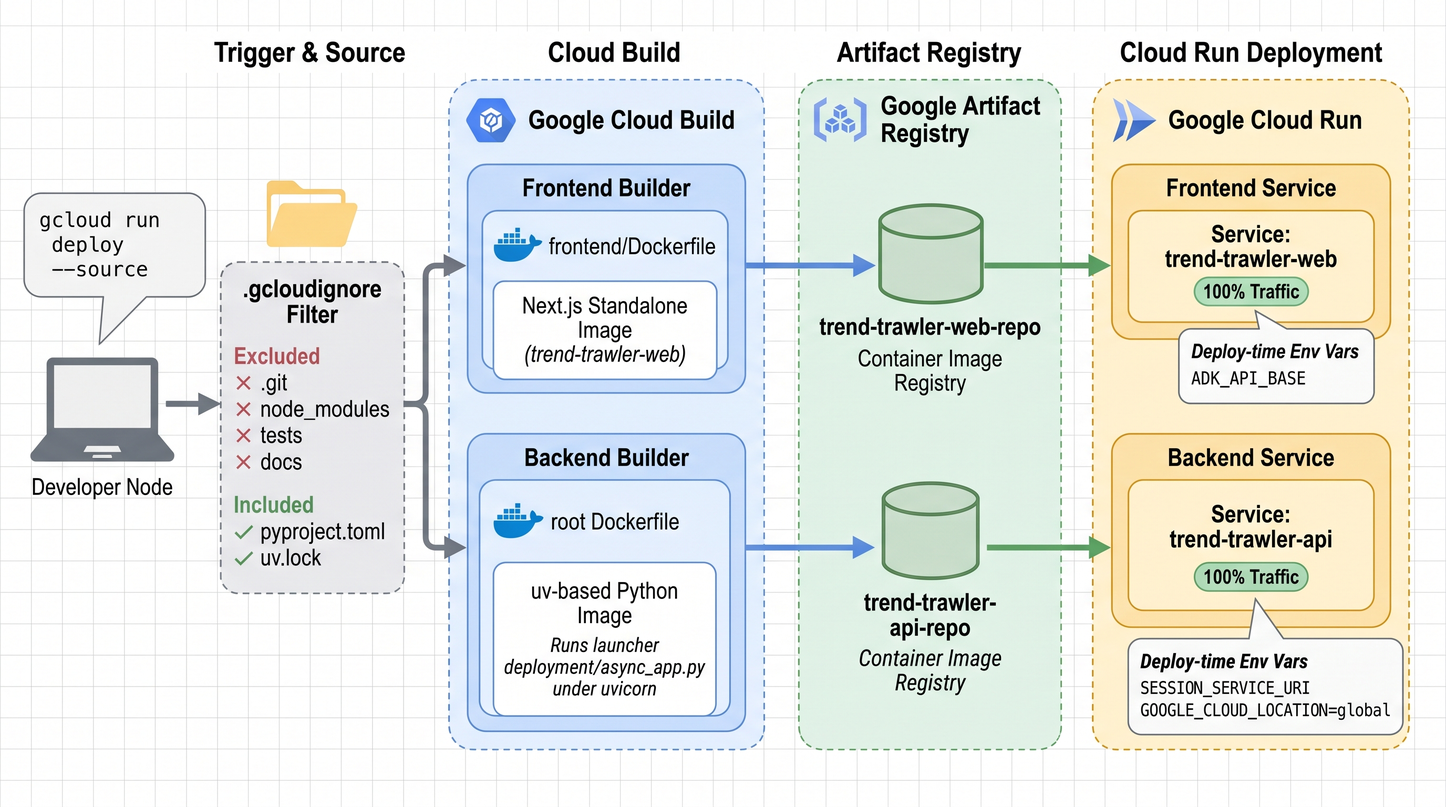
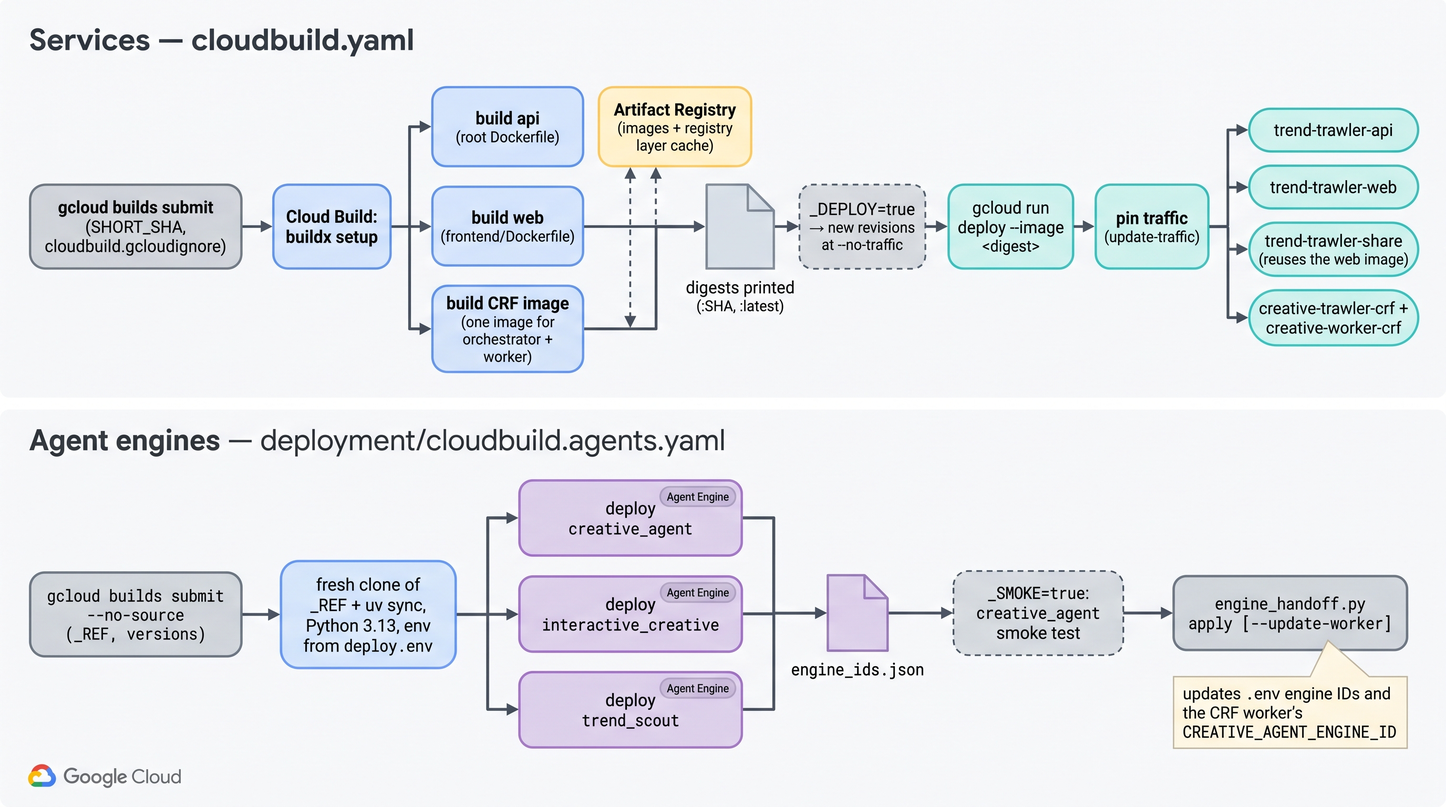
docs(diagrams): regenerate the build pipeline (cached parallel builds, digest deploys, engine Cloud Build)

diff --git a/docs/diagrams/README.md b/docs/diagrams/README.md
@@ -12,7 +12,7 @@ variant and human calibration), and the `interactive_creative` and `creative_eva
 three creative workflow diagrams were regenerated the same day (#263–#280: structured brief,
 `brief_gate` / `copy_gate` / `concept_gate`, post-render image QA, eval gates on rendered images,
 brief-review checkpoint, human ratings). The pre-gates versions are kept in [`archive/`](archive/)
-and linked from each row. On **2026-10-12** the `trend_scout`, `creative_agent`, `interactive_creative` and `creative_eval` diagrams, the three creative workflows, the frontend app diagram and the live Cloud Run topology + auth flow were regenerated for the later work (trend-state awareness, rating learning, shareable links, person references, the share service, the P3 authz flow); each row links its previous version.
+and linked from each row. On **2026-10-12** the `trend_scout`, `creative_agent`, `interactive_creative` and `creative_eval` diagrams, the three creative workflows, the frontend app diagram and the live Cloud Run topology + auth flow were regenerated for the later work (trend-state awareness, rating learning, shareable links, person references, the share service, the P3 authz flow); each row links its previous version. On **2026-10-14** the `trend_scout` diagrams (trend digest), the `creative_eval` diagrams (judge `2026-10-13.1`), the `creative_agent` architecture, the two CRF fan-out diagrams (Cloud Tasks delivery) and the build pipeline were regenerated.
 
 | Diagram | Agent | Highlights |
 |---|---|---|
@@ -61,14 +61,14 @@ The Next.js web app (`frontend/`), how it connects to the ADK backend, and how i
 ### Live Cloud Run Deployment
 
 The as-built Cloud Run deployment (web, api and the public share service) (project `<PROJECT_ID>`, `us-central1`),
-captured from three angles (the build pipeline diagram predates the share service, which is built from the same web image). Complements `frontend_cloudrun_deployment.png` above (which
+captured from three angles (the build pipeline diagram also covers the CRF image and the Agent Engine deploys). Complements `frontend_cloudrun_deployment.png` above (which
 contrasts the dev workstation vs. the Cloud Run target) with the detail of the live system.
 
 | Diagram | Scope | Highlights |
 |---|---|---|
 | ![cloudrun topology](frontend_cloudrun_topology.png) | Deployment topology (what runs where) | **Regenerated 2026-10-12.** Users → **IAP** (domain-restricted) → `trend-trawler-web` (Next.js standalone, SA `tt-web-sa`) → `roles/run.invoker` → private `trend-trawler-api` (`async_app.py` under uvicorn, SA `tt-api-sa`, `--no-cpu-throttling --min-instances 1`) → Vertex AI Gemini (`global`), the `trend-trawler-sessions` Agent Engine, BigQuery `trend_trawler`, Cloud Storage. Anyone with a link → the public `trend-trawler-share` (same image, `SHARE_MODE=1`, `--allow-unauthenticated`, SA `tt-share-sa` with `storage.objectViewer` on the `shares/` prefix only). Previous (2026-07-16) version: [archive/frontend_cloudrun_topology_2026-07-16.png](archive/frontend_cloudrun_topology_2026-07-16.png) |
 | ![cloudrun auth flow](frontend_cloudrun_auth_flow.png) | Request & auth flow | **Regenerated 2026-10-12** for the P3 per-user trust model. Browser signs in → IAP adds `x-goog-iap-jwt-assertion` → the `trend-trawler-web` `/api/adk` proxy verifies the JWT (ES256, audience, hosted domain), normalizes the email, allowlists the route, rewrites `userId` `me` → caller and sets `X-TT-User` → mints a metadata-server ID token (`format=full`) → private `trend-trawler-api`, whose authz middleware trusts `X-TT-User` only with a verified token from `tt-web-sa` (foreign `userId` → 403, missing → 401, blocked routes → 404) → `/runs` poll responses (detached runs survive disconnect). Public share band: anyone → `trend-trawler-share` → only `/s/<token>`, everything else 404, nonce CSP, `noindex`. Previous (2026-07-16) version: [archive/frontend_cloudrun_auth_flow_2026-07-16.png](archive/frontend_cloudrun_auth_flow_2026-07-16.png) |
-| ![cloudrun build pipeline](frontend_cloudrun_build_pipeline.png) | Build & deploy pipeline | `gcloud run deploy --source` uploads source (filtered by **`.gcloudignore`** — excludes `.git`/`node_modules`/`tests`/`docs`, keeps `pyproject.toml`+`uv.lock`) → **Cloud Build** builds each image (`frontend/Dockerfile` → Next.js standalone; root `Dockerfile` → `uv` + the `deployment/async_app.py` launcher under uvicorn) → **Artifact Registry** → new 100%-traffic **Cloud Run** revision, with per-service deploy-time env vars |
+| ![cloudrun build pipeline](frontend_cloudrun_build_pipeline.png) | Build & deploy pipeline | **Regenerated 2026-10-14.** Services (`cloudbuild.yaml`): `gcloud builds submit` (`SHORT_SHA`, `cloudbuild.gcloudignore`) → Cloud Build buildx setup → three parallel BuildKit builds — api (root Dockerfile), web (`frontend/Dockerfile`) and the CRF image (one image for orchestrator + worker) — with Artifact Registry holding the images and the registry layer cache → digests printed (`:SHA`, `:latest`) → optional `_DEPLOY=true` (new revisions at `--no-traffic`) → `gcloud run deploy --image <digest>` → pin traffic (`update-traffic`) → `trend-trawler-api`, `trend-trawler-web`, `trend-trawler-share` (reuses the web image), `creative-trawler-crf` + `creative-worker-crf`. Agent engines (`deployment/cloudbuild.agents.yaml`): `gcloud builds submit --no-source` (`_REF`, versions) → fresh clone of `_REF` + `uv sync`, Python 3.13, env from `deploy.env` → parallel Agent Engine deploys of `creative_agent`, `interactive_creative`, `trend_scout` → `engine_ids.json` → optional `_SMOKE=true` `creative_agent` smoke test → `engine_handoff.py apply [--update-worker]` (updates the `.env` engine IDs and the CRF worker's `CREATIVE_AGENT_ENGINE_ID`). Previous (2026-07-16, `gcloud run deploy --source`) version: [archive/frontend_cloudrun_build_pipeline_2026-07-16.png](archive/frontend_cloudrun_build_pipeline_2026-07-16.png) |
 
 Runbook: [`deployment/README.md` → Frontend + api_server on Cloud Run](../../deployment/README.md#frontend--api_server-on-cloud-run).
 
@@ -76,7 +76,7 @@ Runbook: [`deployment/README.md` → Frontend + api_server on Cloud Run](../../d
 
 | Diagram | Scope | Highlights |
 |---|---|---|
-| ![bandit experiments architecture](bandit_experiments_architecture.png) | Bandit experiments + scripted behaviour shifts | IAP-gated `trend-trawler-web` (Deploy panel, Behaviour shifts editor, run selector) → `/api/adk` proxy → `trend-trawler-api` `/experiments`, which writes `experiment.json` / `runs/N.json` to Cloud Storage, uploads + deploys the **CPR `BanditPredictor`** (JAX linear Thompson sampling, 1 replica) on Agent Platform, and starts **run N** of the synthetic-traffic **Cloud Run Job** (`SHIFTS_JSON`, `TRAFFIC_RUN`, `FORGET`). The job simulates readers with the scheduled shifts, calls the endpoint `:predict` in batches of 100, replays the baselines and the unshifted **ghost** Linear TS on the same random draws, and writes run-numbered events and episode metrics (`traffic_run`, `shift_response`, `regimes`) to **BigQuery**, which the api aggregates into per-shift responses and the paired shift cost |
+| ![bandit experiments architecture](bandit_experiments_architecture.png) | Bandit experiments + scripted behaviour shifts | IAP-gated `trend-trawler-web` (Deploy panel, Behaviour shifts editor, run selector) → `/api/adk` proxy → `trend-trawler-api` `/experiments`, which writes `experiment.json` / `runs/N.json` to Cloud Storage, uploads + deploys the **CPR `BanditPredictor`** (JAX linear Thompson sampling, 1 replica) on Agent Platform, and starts **run N** of the synthetic-traffic **Cloud Run Job** (`SHIFTS_JSON`, `TRAFFIC_RUN`, `FORGET`). The job simulates readers with the scheduled shifts, calls the endpoint `:predict` in batches of 100, replays the baselines and the unshifted **ghost** Linear TS on the same random draws, and writes run-numbered events and episode metrics (`traffic_run`, `shift_response`, `regimes`) to **BigQuery**, which the api aggregates into per-shift responses and the paired shift cost. (Not drawn, added since: a creative cast with a consented person can be an arm while that consent is active, and revoking it stops the experiment; an expired timely creative can still be an arm but gets a warning.) |
 
 Guide: [`docs/bandit/README.md`](../bandit/README.md).
 
